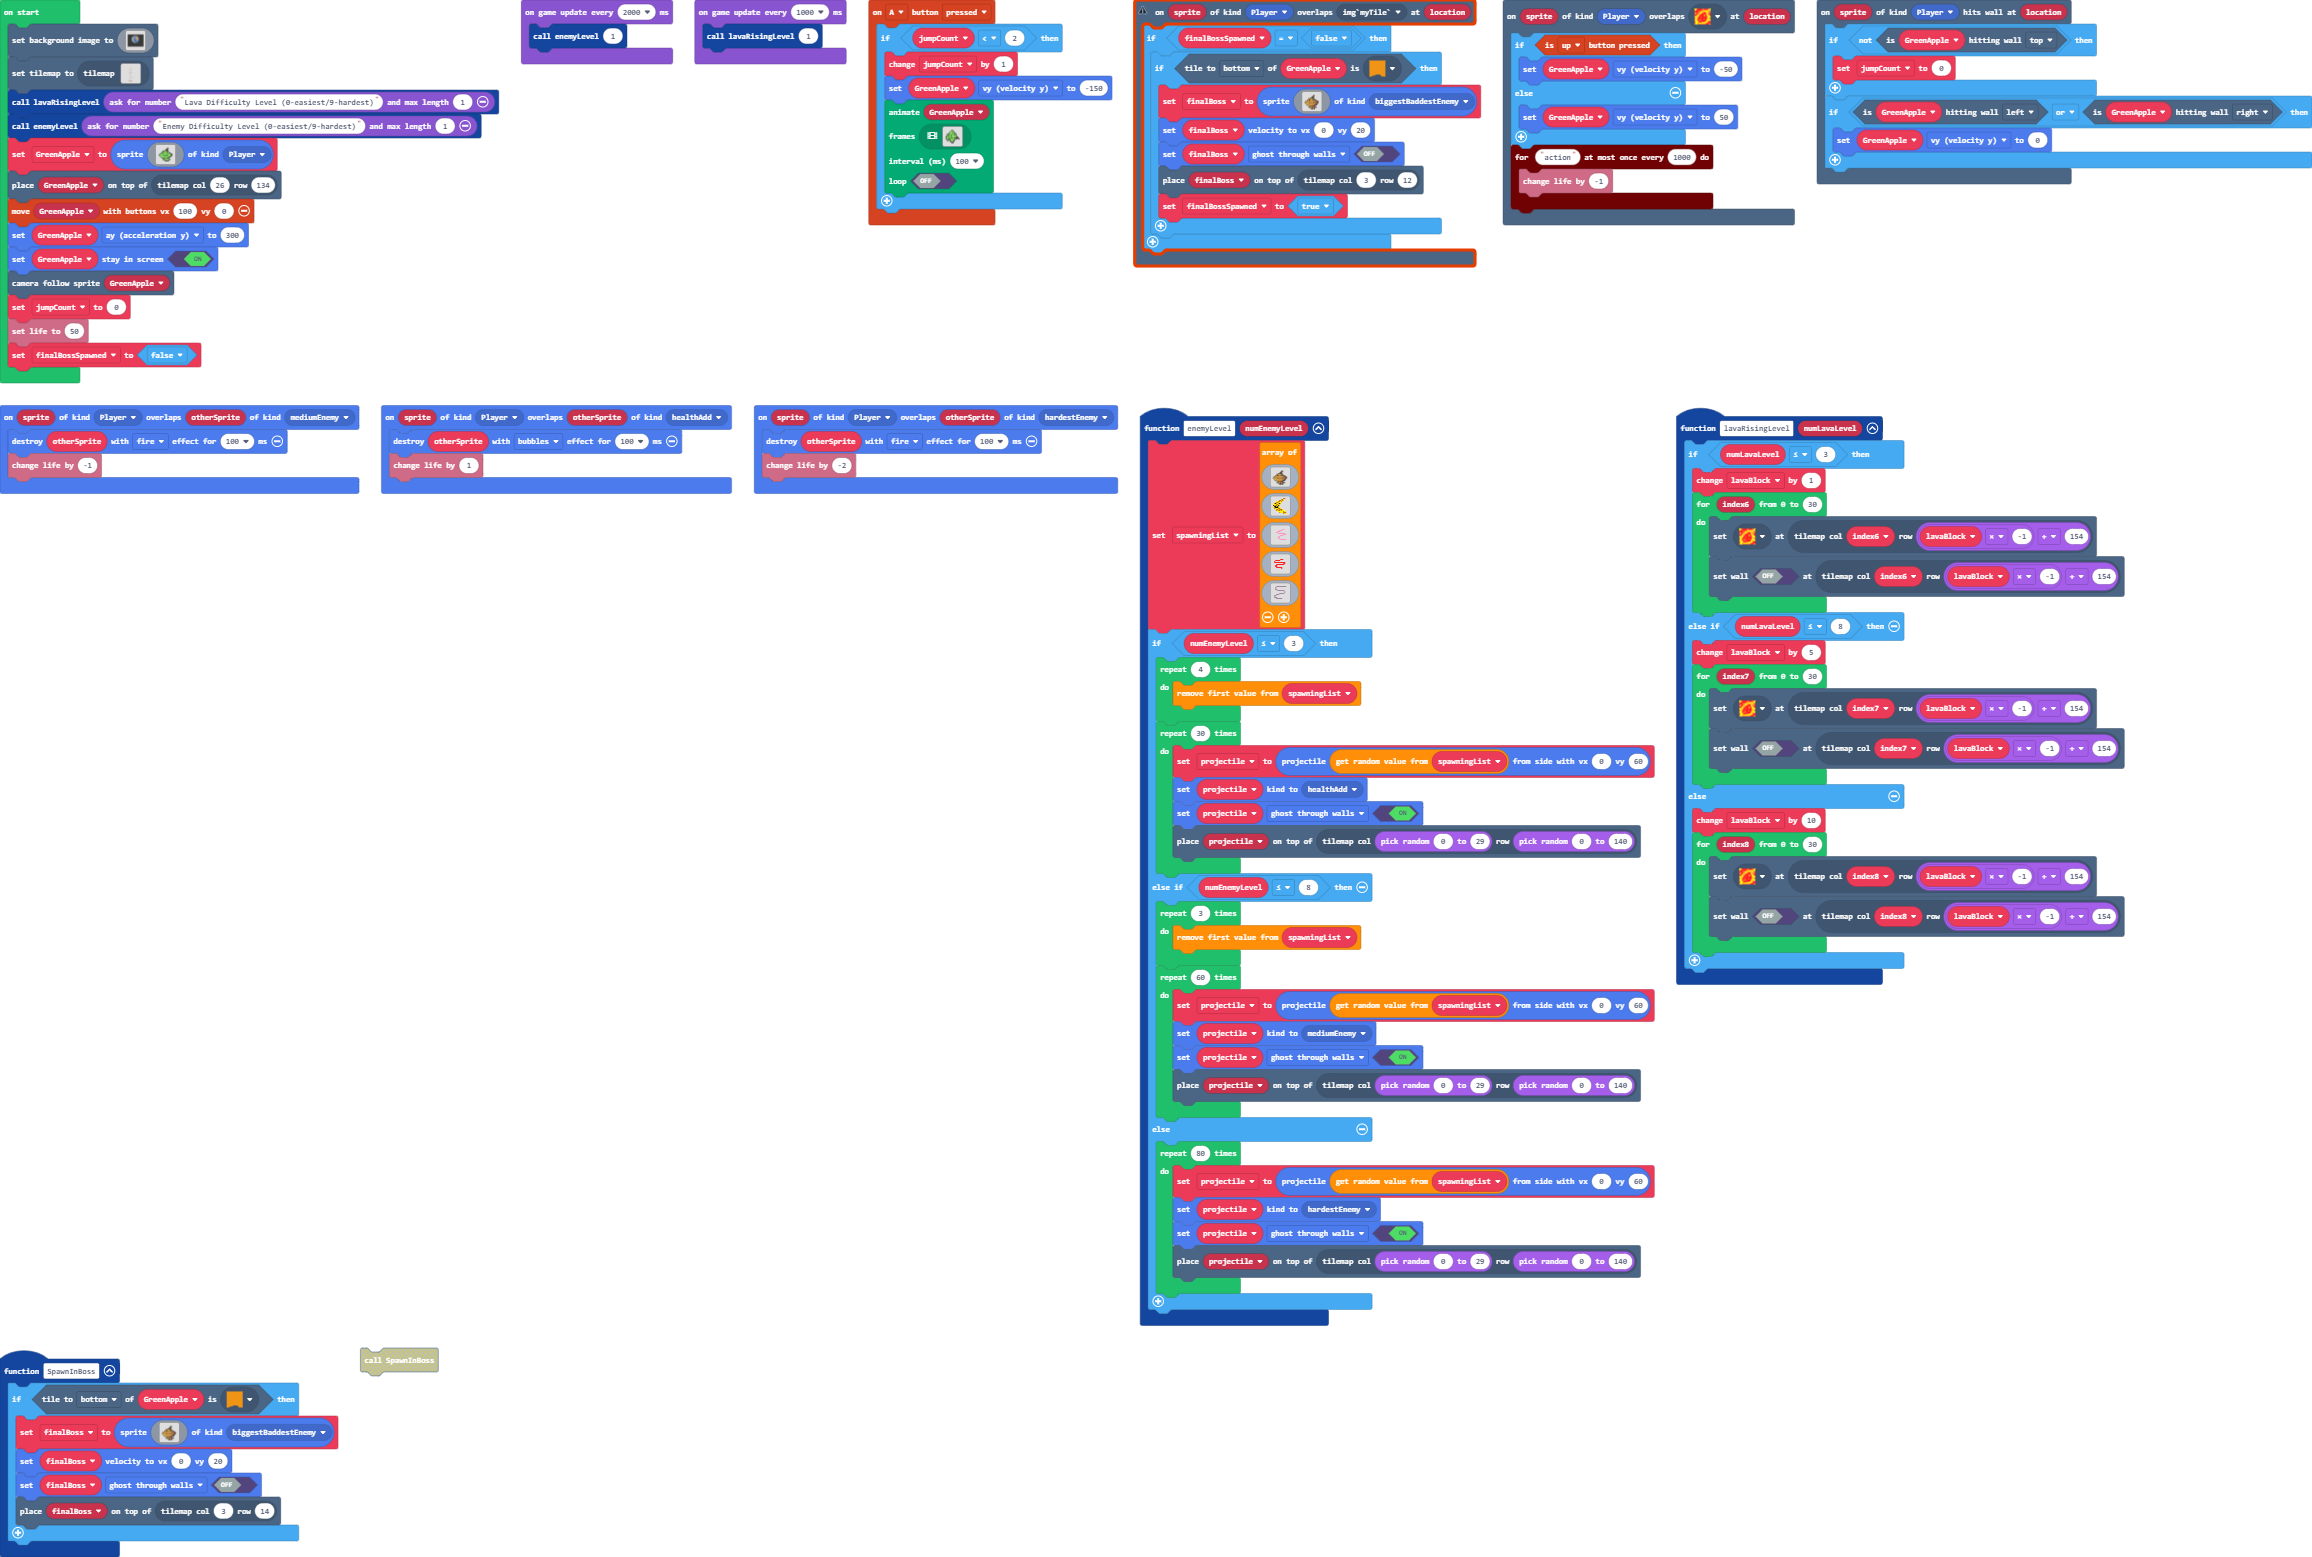
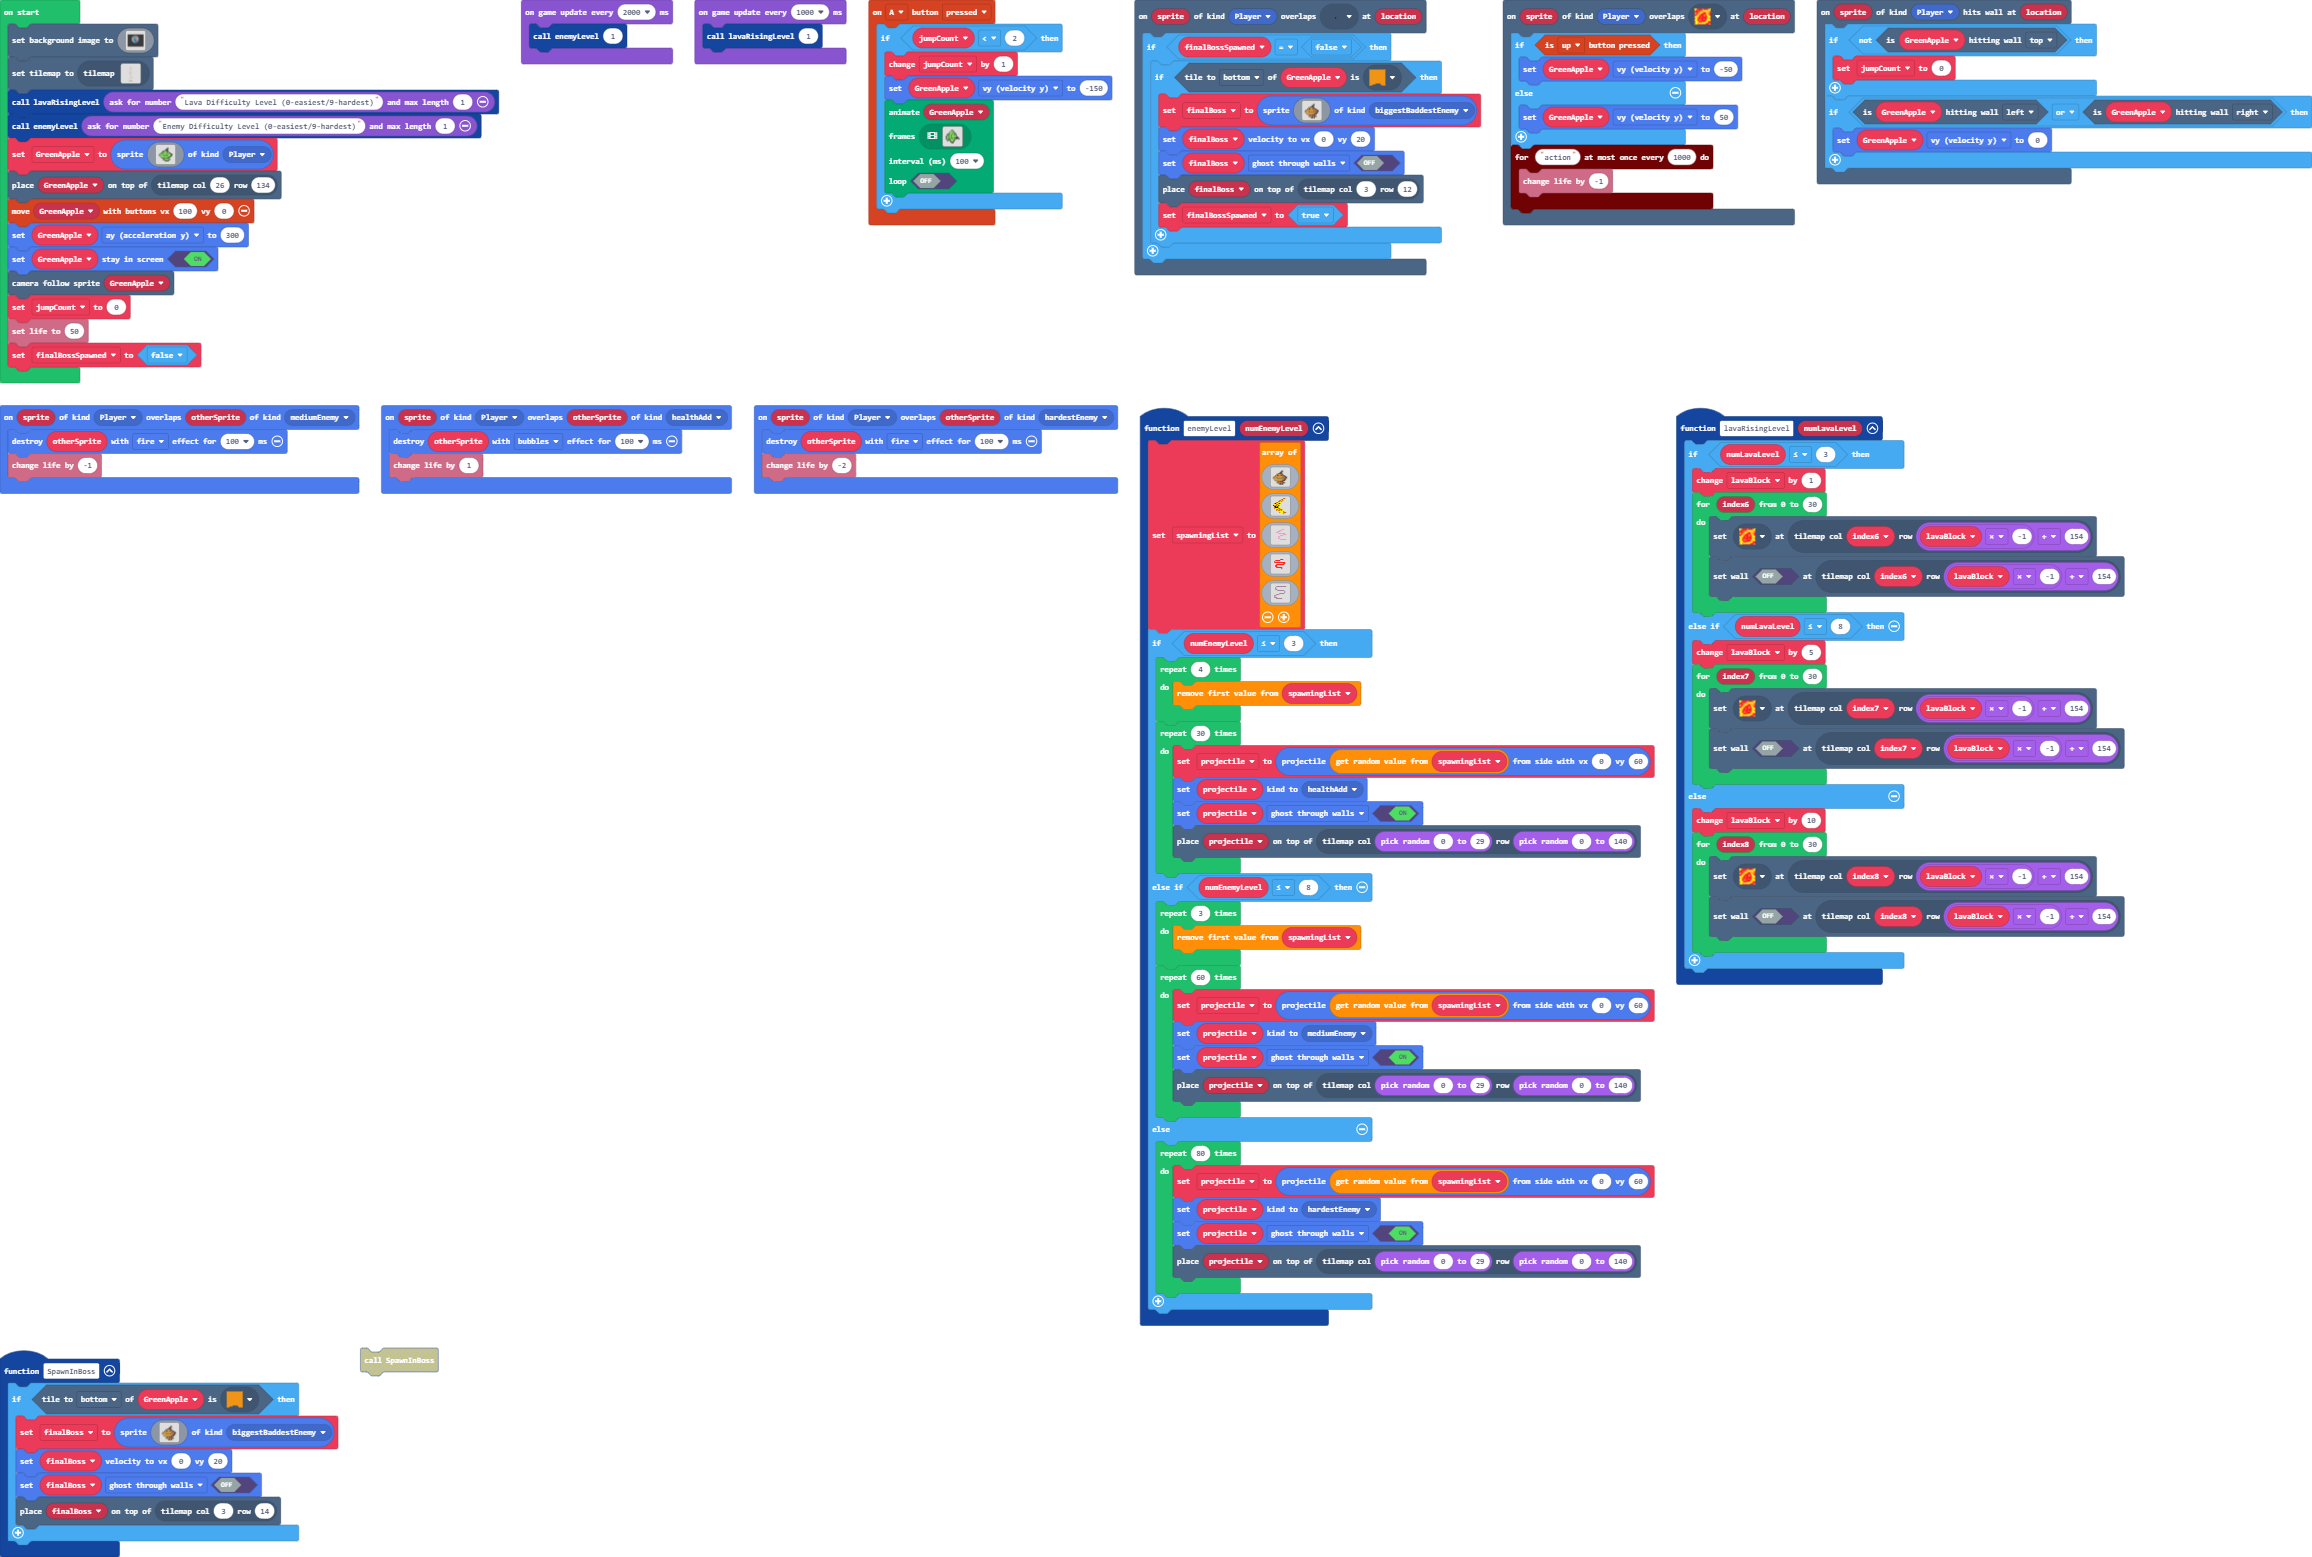
please work

Changed region(s): [[0.4671, 0.0, 0.654, 0.185]]

diff --git a/tilemap.g.ts b/tilemap.g.ts
@@ -2,11 +2,13 @@
 namespace myTiles {
     //% fixedInstance jres blockIdentity=images._tile
     export const transparency16 = image.ofBuffer(hex``);
+    //% fixedInstance jres blockIdentity=images._tile
+    export const tile1 = image.ofBuffer(hex``);
 
     helpers._registerFactory("tilemap", function(name: string) {
         switch(helpers.stringTrim(name)) {
             case "level1":
[2 lines of base64/hex data omitted]
 ..............................
 ..............................
 ..............................
@@ -147,7 +149,7 @@ namespace myTiles {
 ..............................
 ..............................
 ..............................
-`, [myTiles.transparency16,sprites.dungeon.hazardLava0,sprites.builtin.oceanDepths0,sprites.builtin.oceanDepths9,sprites.builtin.oceanDepths7,sprites.builtin.oceanSand14,sprites.builtin.oceanDepths4], TileScale.Sixteen);
+`, [myTiles.transparency16,sprites.dungeon.hazardLava0,sprites.builtin.oceanDepths0,sprites.builtin.oceanDepths9,sprites.builtin.oceanDepths7,sprites.builtin.oceanSand14,sprites.builtin.oceanDepths4,myTiles.tile1], TileScale.Sixteen);
         }
         return null;
     })
@@ -155,6 +157,8 @@ namespace myTiles {
     helpers._registerFactory("tile", function(name: string) {
         switch(helpers.stringTrim(name)) {
             case "transparency16":return transparency16;
+            case "myTile":
+            case "tile1":return tile1;
         }
         return null;
     })

diff --git a/main.ts b/main.ts
@@ -100,6 +100,17 @@ scene.onHitWall(SpriteKind.Player, function (sprite, location) {
         GreenApple.vy = 0
     }
 })
+scene.onOverlapTile(SpriteKind.Player, assets.tile`myTile`, function (sprite, location) {
+    if (finalBossSpawned == false) {
+        if (GreenApple.tileKindAt(TileDirection.Bottom, sprites.builtin.oceanSand14)) {
+            finalBoss = sprites.create(assets.image`archnemesis`, SpriteKind.biggestBaddestEnemy)
+            finalBoss.setVelocity(0, 20)
+            finalBoss.setFlag(SpriteFlag.GhostThroughWalls, false)
+            tiles.placeOnTile(finalBoss, tiles.getTileLocation(3, 12))
+            finalBossSpawned = true
+        }
+    }
+})
 controller.A.onEvent(ControllerButtonEvent.Pressed, function () {
     if (jumpCount < 2) {
         jumpCount += 1
@@ -211,17 +222,6 @@ scene.onOverlapTile(SpriteKind.Player, sprites.dungeon.hazardLava0, function (sp
     timer.throttle("action", 1000, function () {
         info.changeLifeBy(-1)
     })
-})
-scene.onOverlapTile(SpriteKind.Player, img`myTile`, function (sprite, location) {
-    if (finalBossSpawned == false) {
-        if (GreenApple.tileKindAt(TileDirection.Bottom, sprites.builtin.oceanSand14)) {
-            finalBoss = sprites.create(assets.image`archnemesis`, SpriteKind.biggestBaddestEnemy)
-            finalBoss.setVelocity(0, 20)
-            finalBoss.setFlag(SpriteFlag.GhostThroughWalls, false)
-            tiles.placeOnTile(finalBoss, tiles.getTileLocation(3, 12))
-            finalBossSpawned = true
-        }
-    }
 })
 function SpawnInBoss () {
     if (GreenApple.tileKindAt(TileDirection.Bottom, sprites.builtin.oceanSand14)) {
